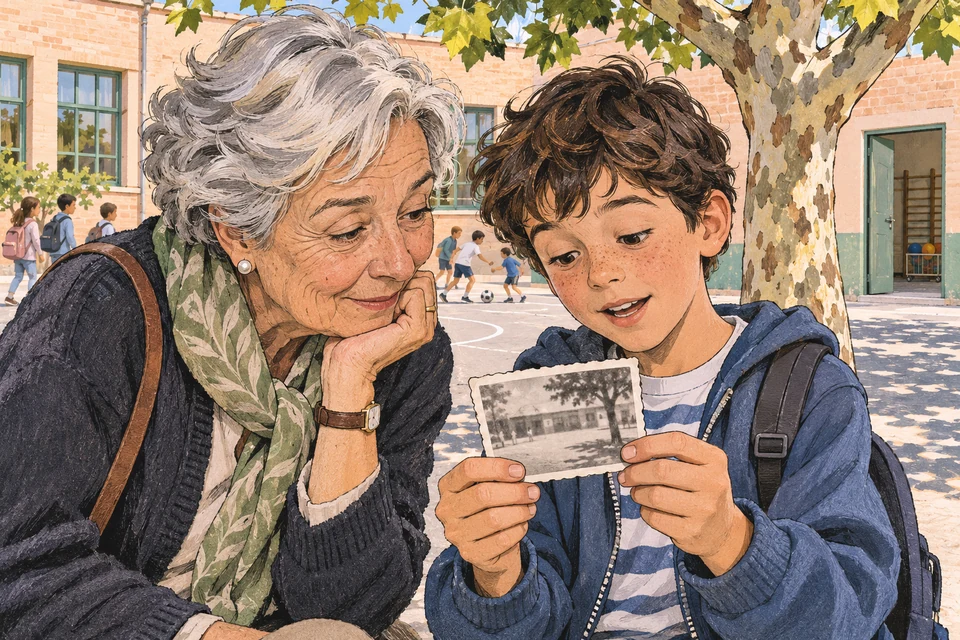
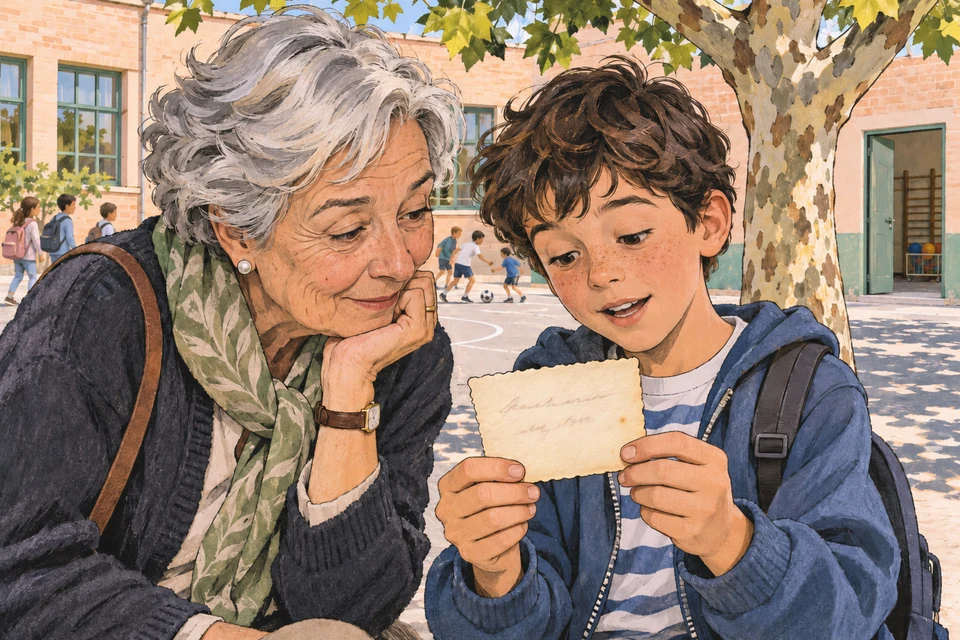
Show the back of the old photograph in L032

diff --git a/data/readings-4-es.js b/data/readings-4-es.js
@@ -789,7 +789,7 @@ export const readings4Es = [
         "src": "assets/readings/l032-el-patio-de-antes.webp",
         "width": 960,
         "height": 640,
-        "alt": "Nico y Elena miran una fotografía antigua del patio de la escuela. Al fondo se ven un árbol y la puerta del gimnasio.",
+        "alt": "Nico y Elena miran una foto antigua. Se ve el reverso amarillento, con una anotación borrosa. Al fondo están el árbol y la puerta del gimnasio.",
         "afterParagraph": 1
       }
     ],

diff --git a/assets/readings/L032-illustracio.md b/assets/readings/L032-illustracio.md
@@ -2,6 +2,12 @@
 
 Imatge `l032-el-patio-de-antes.webp`, generada amb el generador integrat i optimitzada per al catàleg.
 
+A la versió publicada es veu el dors esgrogueït de la fotografia, amb una anotació il·legible.
+
+```text
+Edit ONLY the rectangular old photograph held in the boy’s two hands at lower center of this exact landscape illustration. The photo front faces the boy and the older woman; the viewer sees exclusively the BACK of the photo. Replace the entire printed schoolyard image area with one continuous matte faded pale cream paper backing. Preserve the scalloped silhouette, original photo angle and every finger overlapping its edges. On the visible paper back add a couple of short faint handwritten cursive lines in faded pencil or sepia ink suggestive of a place and year, but entirely illegible (no readable letters, digits, words or dates). Include a subtle small age spot and gentle yellowing near an edge, not heavy grunge. No picture, no photographic imagery, no transparent or bleeding-through marks anywhere on the visible face of the card. Leave the faces, hands, their gaze, clothes, the schoolyard background and framing exactly as in the reference. Preserve the textured colored illustration style and 3:2 canvas.
+```
+
 ```text
 Landscape 3:2 children's editorial illustration in expressive pen outlines and soft pastel gouache. In a present-day Spanish primary-school courtyard an older woman, Elena, with short silver hair looks at a small black-and-white print held by a schoolboy, Nico. The print shows only a tiny, indistinct courtyard. A plane-tree trunk and a simple narrow gym door are suggested in the background. The characters and their shared attention to the photo are the focus. Warm pale brick, sage, soft blue, deep charcoal; bright daytime with good contrasts in grayscale. No text, logos, lettering, frame, or split panels.
 ```
